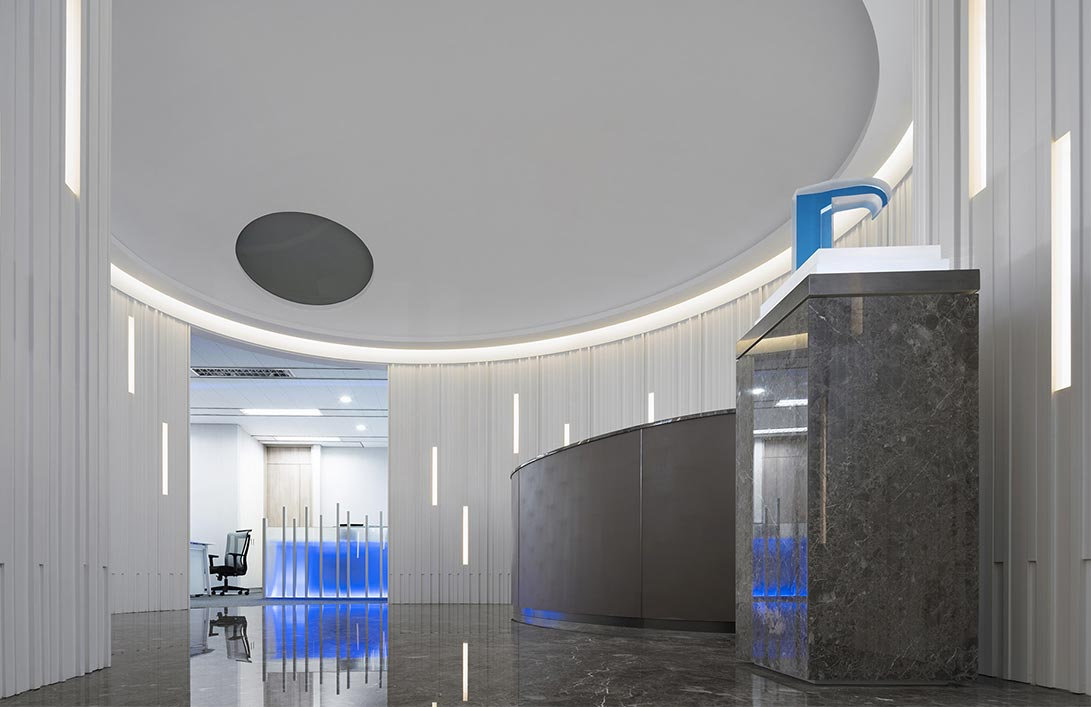
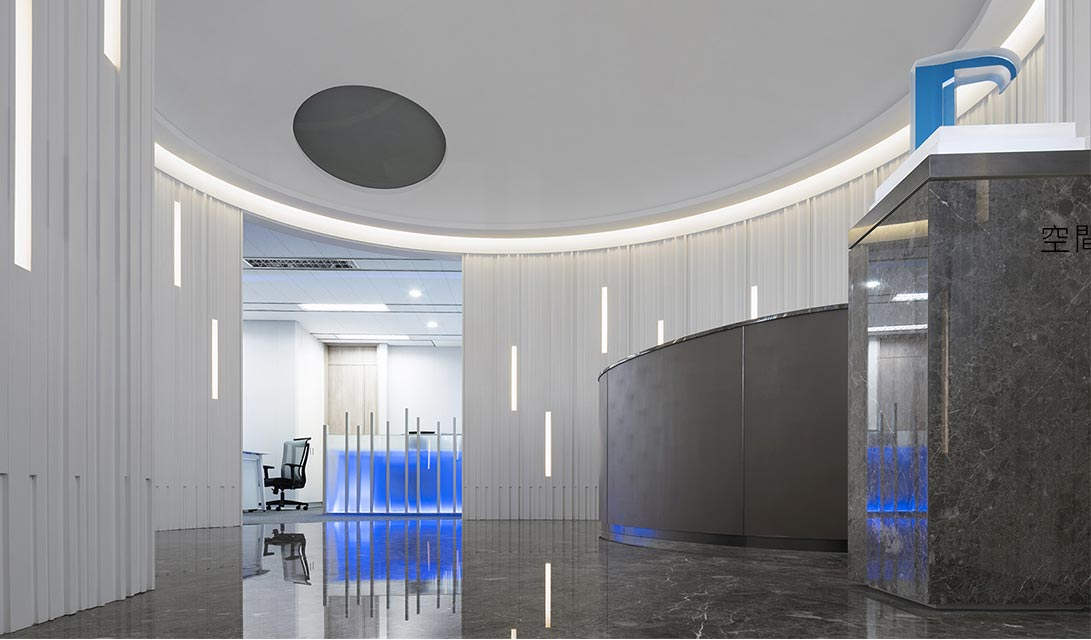
update workPop img

diff --git a/src/scss/pages/_works.scss b/src/scss/pages/_works.scss
@@ -274,7 +274,7 @@
                 width: 1090px;
                 height: 706px;
                 background-position: 50% 50%;
-                background-size: cover;
+                background-size: contain;
                 background-repeat: no-repeat;
                 @media screen and (max-width: 1701px) {
                     width: 990px;
